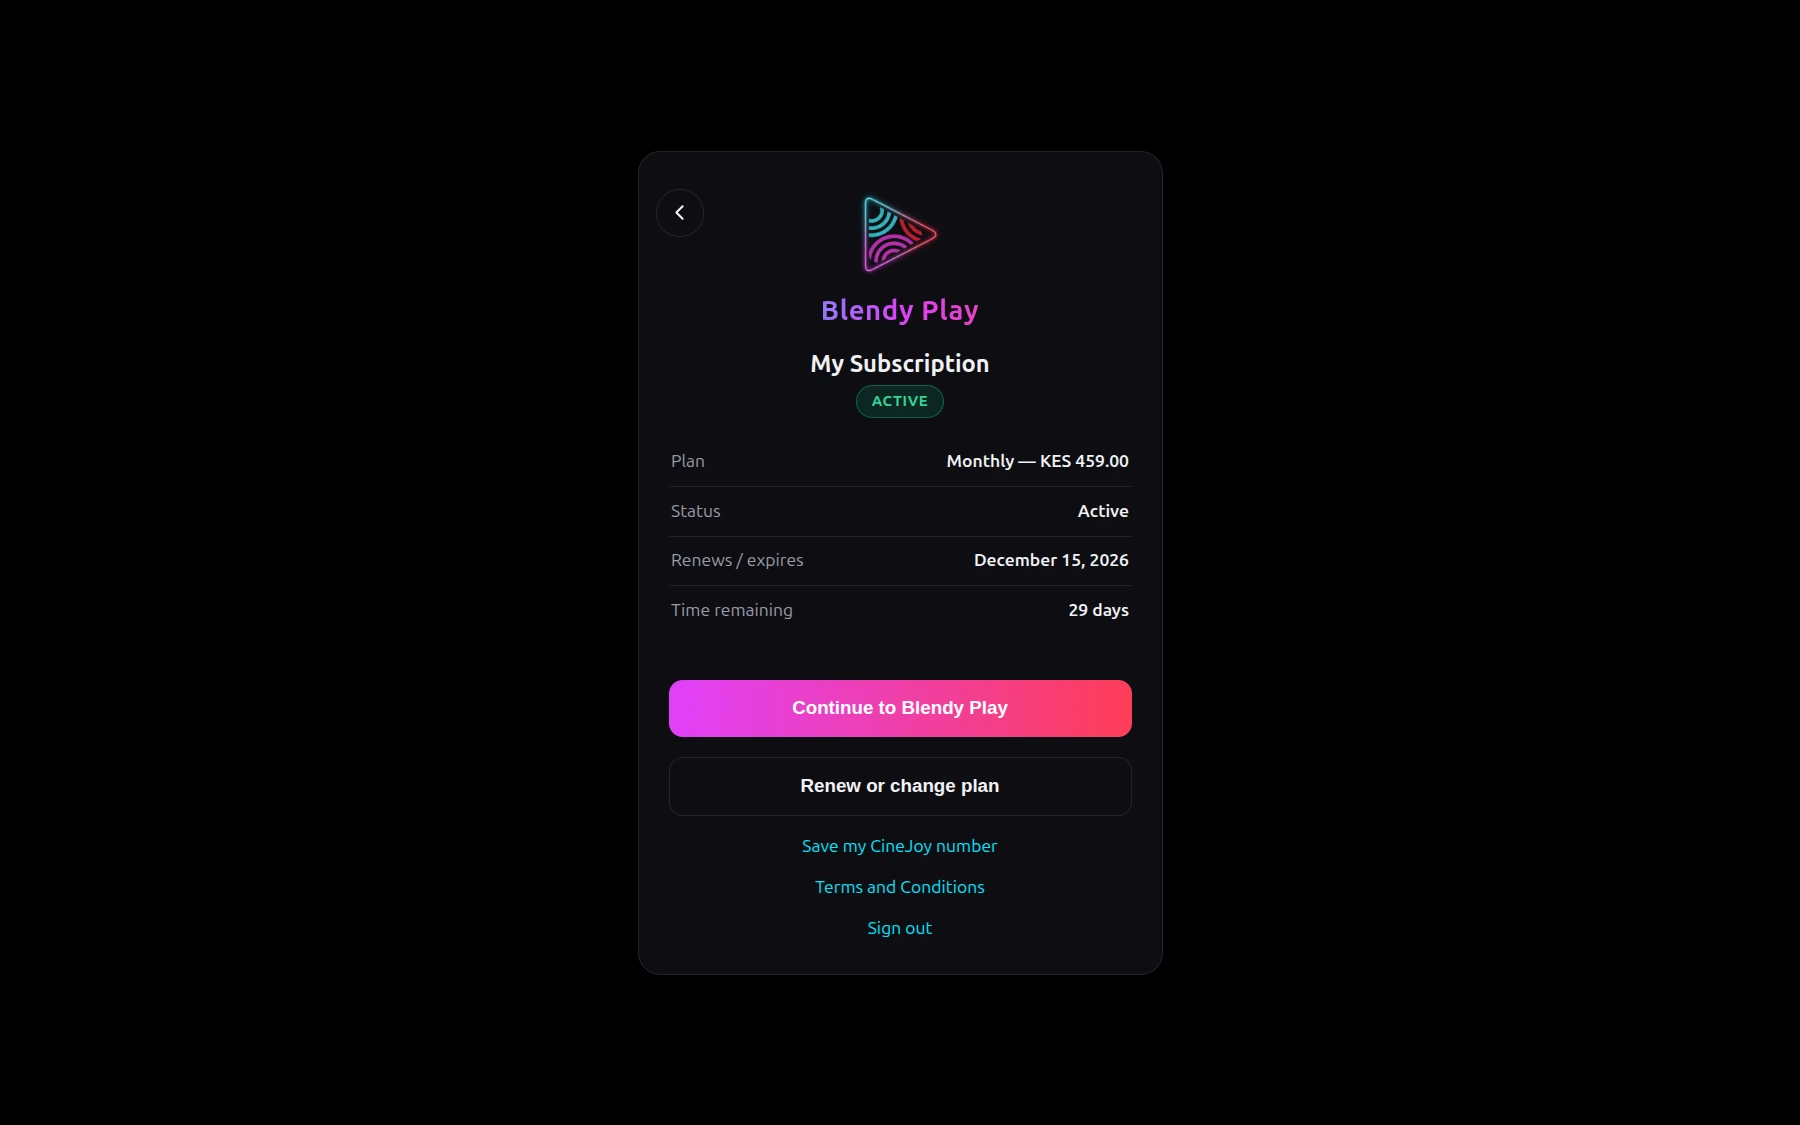
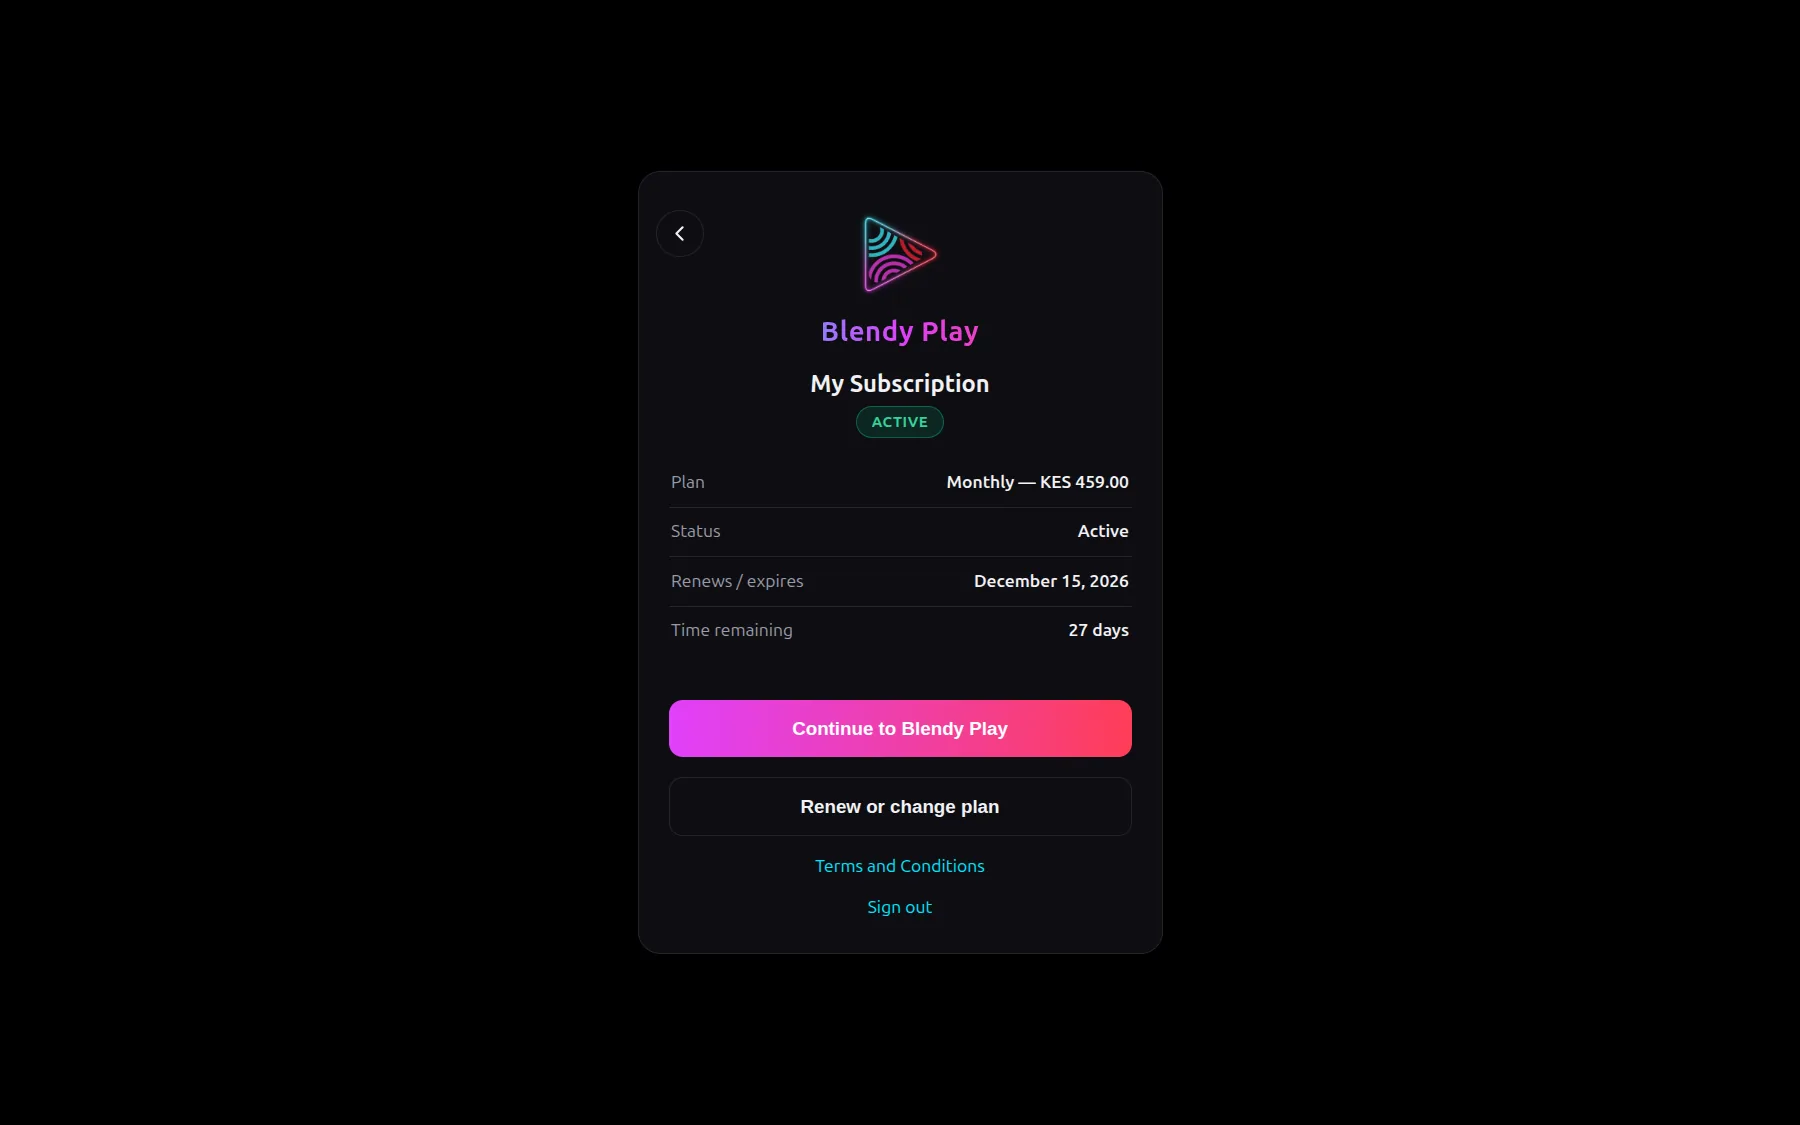
feat(site): show the current app screens in the gallery
The gallery's welcome, plans and My Subscription shots still showed
"A CineJoy account is optional" and "Save my CineJoy number", which
the app no longer has.

They're recaptured on phone, TV and desktop, and two screens are
added: creating an account with a referral code, and the optional
server key step after the email is confirmed.

Changed region(s): [[0.3733, 0.4044, 0.6533, 0.84], [0.4356, 0.1556, 0.56, 0.4044], [0.3733, 0.4044, 0.4356, 0.56]]

diff --git a/public/screenshots/README.md b/public/screenshots/README.md
@@ -4,8 +4,9 @@ The product page's gallery reads `screenshots.json`: for each device
 (`phone`, `tv`, `desktop`) a list of images with a caption. To change the
 gallery, drop new images here and edit the list. WebP keeps them small.
 
-The current set shows Blendy Play's own screens (welcome, the emailed-code
-check, plans, My Subscription) and two views of the listing as the app shows
+The current set shows Blendy Play's own screens (welcome, creating an
+account with a referral code, the emailed-code check, the optional server
+key step, plans, My Subscription) and two views of the listing as the app shows
 it (ads blocked, Blendy Play's logo). Each is captured at the device's size
 with the whole screen in view: the zoom is lowered where a screen wouldn't
 fit, and the listing shots are framed on two complete rows.
